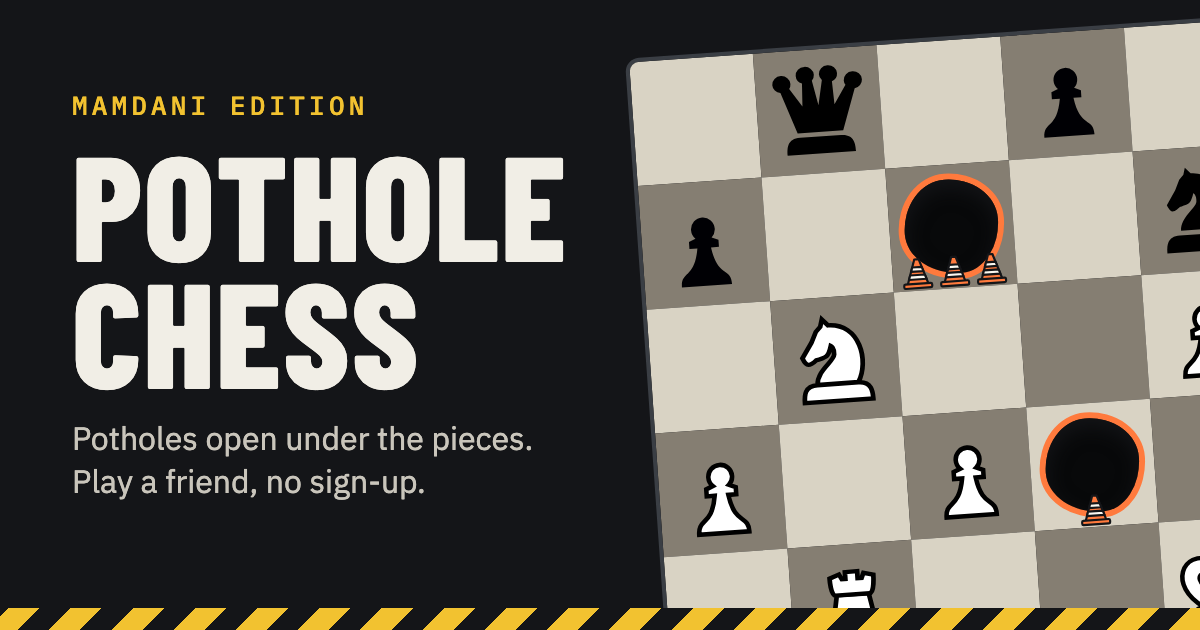
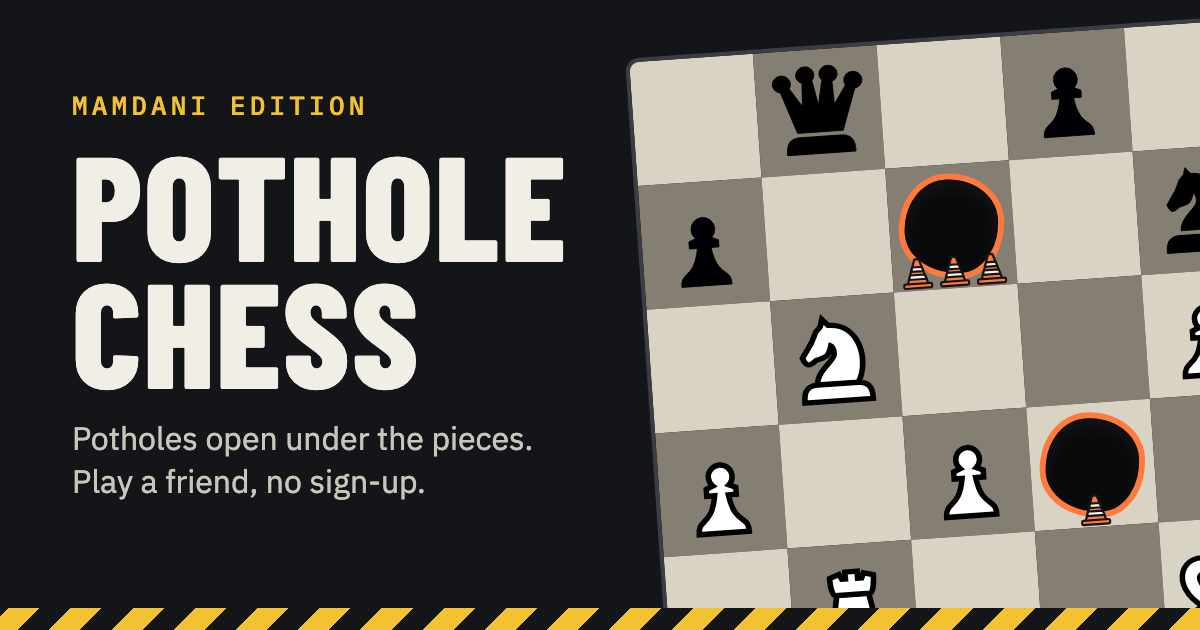
web: piece lines 1.2 times as heavy and a 2 px cream outline
The mpchess files are edited (white pieces' strokes widen; black pieces get
a black edge of the same added width); LICENSE.txt and the README say so.
The link preview card is redrawn.

diff --git a/web/src/lib/Board.svelte b/web/src/lib/Board.svelte
@@ -855,12 +855,12 @@
 		transition: transform 0.12s ease-out;
 	}
 	/* mpchess pieces fill the square (110% of the old 92%), with a crisp
-	   white outline: their own shape offset 1.5 px four ways, no blur. */
+	   white outline: their own shape offset 2 px four ways, no blur. */
 	.piece img {
 		width: 100%;
 		height: 100%;
-		filter: drop-shadow(1.5px 0 0 var(--piece-outline)) drop-shadow(-1.5px 0 0 var(--piece-outline))
-			drop-shadow(0 1.5px 0 var(--piece-outline)) drop-shadow(0 -1.5px 0 var(--piece-outline));
+		filter: drop-shadow(2px 0 0 var(--piece-outline)) drop-shadow(-2px 0 0 var(--piece-outline))
+			drop-shadow(0 2px 0 var(--piece-outline)) drop-shadow(0 -2px 0 var(--piece-outline));
 	}
 	.piece .mamdani {
 		filter: none; /* its yellow border is its outline */
@@ -946,8 +946,8 @@
 	.promote img {
 		width: 80%;
 		height: 80%;
-		filter: drop-shadow(1.5px 0 0 var(--piece-outline)) drop-shadow(-1.5px 0 0 var(--piece-outline))
-			drop-shadow(0 1.5px 0 var(--piece-outline)) drop-shadow(0 -1.5px 0 var(--piece-outline));
+		filter: drop-shadow(2px 0 0 var(--piece-outline)) drop-shadow(-2px 0 0 var(--piece-outline))
+			drop-shadow(0 2px 0 var(--piece-outline)) drop-shadow(0 -2px 0 var(--piece-outline));
 	}
 	.promote .cancel {
 		grid-column: 1 / -1;

diff --git a/README.md b/README.md
@@ -82,4 +82,4 @@ pnpm --dir web check     # Svelte and TypeScript type checks
 
 - **Pot-Hole Chess** by Peter Spicer and Michael Chamberlain, published on [The Chess Variant Pages](https://www.chessvariants.com/boardrules.dir/potholechess.html) (2001).
 - **The Mamdani** comes from a [patch video](https://www.instagram.com/reels/Dd8tV_MxEQL/).
-- **Chess pieces:** the "mpchess" set by [Maxime Chupin](https://github.com/chupinmaxime), as published in [lichess](https://github.com/lichess-org/lila/tree/5ae58154b2be1033dcb0252173b4fff4bb02e73a/public/piece/mpchess), under the GNU GPL v3 or later ([notice](web/static/pieces/LICENSE.txt), [license](web/static/pieces/GPL-3.0.txt)).
+- **Chess pieces:** the "mpchess" set by [Maxime Chupin](https://github.com/chupinmaxime), as published in [lichess](https://github.com/lichess-org/lila/tree/5ae58154b2be1033dcb0252173b4fff4bb02e73a/public/piece/mpchess), under the GNU GPL v3 or later, with every line 1.2 times as heavy ([notice](web/static/pieces/LICENSE.txt), [license](web/static/pieces/GPL-3.0.txt)).
